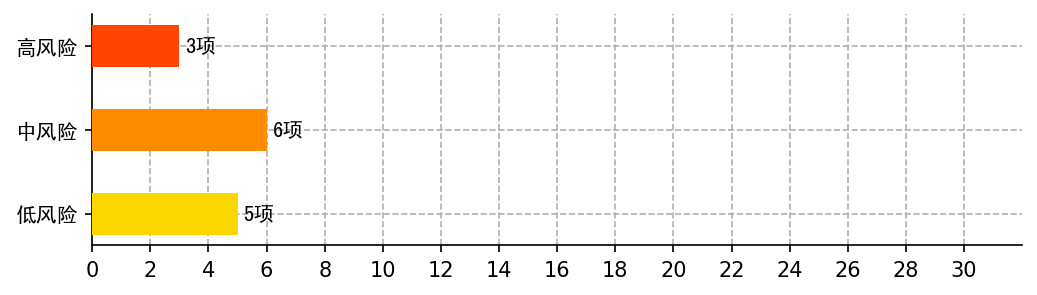
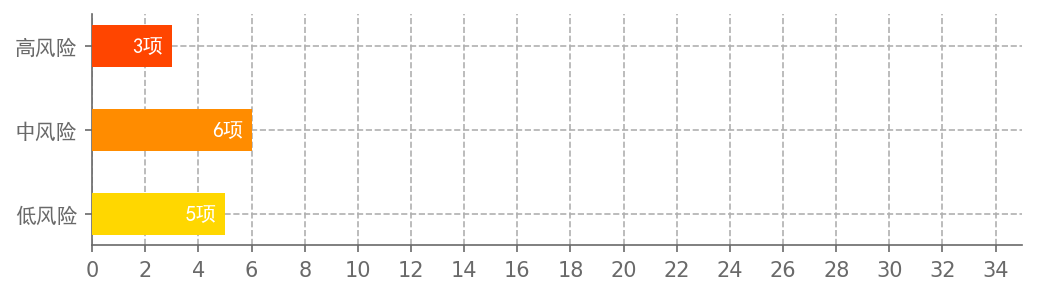
修改标题和表格

diff --git a/reporter.py b/reporter.py
@@ -1,7 +1,8 @@
 from docx import Document
 from docx.shared import Inches, Pt, RGBColor, Cm
 import pandas as pd
-from docx.enum.table import WD_TABLE_ALIGNMENT
+from docx.enum.table import WD_TABLE_ALIGNMENT,WD_ALIGN_VERTICAL
+from docx.enum.text import WD_PARAGRAPH_ALIGNMENT
 import numpy as np
 from docx.oxml.shared import qn
 from docx.oxml.xmlchemy import OxmlElement
@@ -12,9 +13,6 @@ from draw import draw
 
 
 
-
-# from matplotlib.font_manager import FontManager
-# import subprocess
 
 
 
@@ -44,41 +42,90 @@ def merge_cells_by_column_test(table, column):
     for i in range(1, len(table.rows)):
         if(head_cell.text == table.cell(i, column).text):
             head_cell.merge(table.cell(i, column))
+            head_cell.paragraphs[0].runs[0].font.size = Pt(9)
+            head_cell.paragraphs[0].alignment = WD_PARAGRAPH_ALIGNMENT.CENTER
+            head_cell.vertical_alignment = WD_ALIGN_VERTICAL.CENTER
+            head_cell.paragraphs[0].runs[0].font.color.rgb = RGBColor(69, 69, 69)
             head_cell.text = head_cell_text
         else:
             head_cell = table.cell(i, column)
+            head_cell.paragraphs[0].runs[0].font.size = Pt(9)
+            head_cell.paragraphs[0].alignment = WD_PARAGRAPH_ALIGNMENT.CENTER
+            head_cell.vertical_alignment = WD_ALIGN_VERTICAL.CENTER
+            head_cell.paragraphs[0].runs[0].font.color.rgb = RGBColor(69, 69, 69)
             head_cell_text = head_cell.text
 
 
 def generate_table(file_name, doc):
     df = pd.read_csv('data/{}.csv'.format(file_name))
     table = doc.add_table(1, cols=len(df.columns), style='Table Grid')
+    table.autofit = True
+    table.columns[0].width = Inches(1)
+    table.columns[1].width = Inches(2)
+    table.columns[2].width = Inches(1)
+
+
+
+
     header_cells = table.rows[0].cells
     for i, col in enumerate(df.columns):
-        header_cells[i].text = col
+        cell = header_cells[i]
+        cell.text = col
+        # cell.paragraphs[0].runs[0].font.bold = True
+        cell.paragraphs[0].runs[0].font.size = Pt(9)
+        cell.paragraphs[0].runs[0].font.color.rgb = RGBColor(69, 69, 69)
+        cell.vertical_alignment = WD_ALIGN_VERTICAL.CENTER
 
+    table.rows[0].height = Pt(24)
     # 填入数据
     for i, row in enumerate(df.itertuples(), start=1):
         cells = table.add_row().cells
+        table.rows[i].height = Pt(24)
         for j, value in enumerate(row[1:], start=0):
-            cells[j].text = str(value)
+            cell = cells[j]
+            cell.text = str(value)
+            cell.paragraphs[0].runs[0].font.size = Pt(9)
+            cell.paragraphs[0].alignment = WD_PARAGRAPH_ALIGNMENT.CENTER
+            cell.vertical_alignment = WD_ALIGN_VERTICAL.CENTER
+            cell.paragraphs[0].runs[0].font.color.rgb = RGBColor(69, 69, 69)
+
+
+            # cells[j].font.size = Pt(1)
 
     merge_cells_by_column_test(table, 0)
     merge_cells_by_column_test(table, 1)
 
+
     for i in range(len(table.columns)):
         set_table_header_bg_color(table.rows[0].cells[i])
-        table.rows[0].cells[i].width = Inches(1000)
     # table.style = 'Light Grid'
     table.style.paragraph_format.alignment = WD_TABLE_ALIGNMENT.CENTER
     # table.style.font.size = Pt(8)
 
 if __name__ == '__main__':
     document = Document()
-    document.styles['Normal'].font.name = u'宋体'
-    document.styles['Normal'].font.size = Pt(10)
-    document.styles['Normal'].font.color.rgb = RGBColor(0, 0, 0)
-    document.styles['Normal']._element.rPr.rFonts.set(qn('w:eastAsia'), u'宋体')
+    text_style = document.styles['Normal']
+    
+    text_style.font.name = u'黑体'
+    text_style.font.size = Pt(9.5)
+    text_style.font.color.rgb = RGBColor(69, 69, 69)
+    text_style._element.rPr.rFonts.set(qn('w:eastAsia'), u'黑体')
+
+    head_1_style = document.styles['Heading 1']
+
+    head_1_style.font.name = u'黑体'
+    head_1_style.font.size = Pt(15)
+    # head_1_style.font.color.rgb = RGBColor(0, 0, 0)
+    head_1_style._element.rPr.rFonts.set(qn('w:eastAsia'), u'黑体')
+
+
+    head_2_style = document.styles['Heading 2']
+
+    head_2_style.font.name = u'黑体'
+    head_2_style.font.size = Pt(13)
+    head_2_style.font.color.rgb = RGBColor(69, 69, 69)
+    head_2_style._element.rPr.rFonts.set(qn('w:eastAsia'), u'黑体')
+
 
     document.sections[0].top_margin = Cm(1.27)
     document.sections[0].bottom_margin = Cm(1.27)
@@ -90,19 +137,14 @@ if __name__ == '__main__':
 
 
     document.add_heading('总结概述', level=1)
-    # document.add_heading('1. 整体风险', level=4)
     p1 = document.add_paragraph()
-    p1.add_run('1. 整体风险').bold = True
+    p1.add_run('1. 整体风险').font.size=Pt(10.5)
     draw.draw('1')
 
     p2 = document.add_paragraph()
-    p2.add_run('本次报告分析周期为：（2020年01月01日到2023年02月28日），通过发票、财务报表、纳税申报表的综合分析，共检测出风险点14项，其中高风险3项，中风险6项，低风险5项')
+    p2.add_run('本次报告分析周期为：(2020年01月01日到2023年02月28日)，通过发票、财务报表、纳税申报表的综合分析，共检测出风险点14项，其中高风险3项，中风险6项，低风险5项')
     document.add_picture('fig/1.png')
-    # p2 = document.add_paragraph('本次报告分析周期为：（2020年01月01日到2023年02月28日），通过发票、财务报表、纳税申报表的综合分析，共检测出风险点14项，其中高风险3项，中风险6项，低风险5项')
     # p1.paragraph_format.line_spacing = Pt(15)
-    # p1.style.font.size = Pt(8)
-    # document.add_heading('2. 具体风险如下', level=4)
-    # p3 = document.add_paragraph('2. 具体风险如下').bold = True
     p3 = document.add_paragraph()
     p3.add_run('2. 具体风险如下').bold = True
     generate_table('1', document)

diff --git a/draw/draw.py b/draw/draw.py
@@ -13,7 +13,7 @@ def draw(file_name):
 
     font = {
     'family': 'SimHei',
-    'weight': 'light',
+    'weight': 'light'
     }
     df = pd.read_csv('data/{}.csv'.format(file_name), header=0)
     data = df['风险等级'].value_counts()
@@ -26,26 +26,38 @@ def draw(file_name):
 
     fig = plt.figure(figsize=(8,2), dpi=150)
     ax = fig.add_subplot()
+    # plt.text(3,15,'SimHei',color='red')
+    # plt.tick_params(axis='y', color='red')
+
     ax.grid(True, linestyle='--', zorder=0)
     ax.spines['right'].set_visible(False)
     ax.spines['top'].set_visible(False)
-    # ax = fig.add_subplots(221)
-    y_pos = np.arange(3)
+    ax.spines['bottom'].set_color('dimgrey')
+    ax.spines['left'].set_color('dimgrey')
     bar_color = ['orangered', 'darkorange', 'gold']
+    y_pos = np.arange(3)
+
     # x轴
-    plt.xlim(0,32)
+    plt.xlim(0,35)
     # x轴刻度
-    plt.xticks(np.arange(0,32,2))
+    plt.xticks(np.arange(0,35,2),color='dimgrey')
+    plt.yticks(y_pos,y,color='dimgrey',fontproperties=font)
+    plt.tick_params(axis='x', color='dimgrey')
+    plt.tick_params(axis='y', color='dimgrey')
+    # ax.set_ylim(auto=False)
+
     # y轴
-    ax.set_yticks(y_pos, labels=y, font=font)
+    # ax.set_yticks(y_pos, labels=y)
+    # ax.set_yticks(y_pos, labels=y)
 
     ax.invert_yaxis()  # labels read top-to-bottom
     # x_label = [str(x[0])+'项', str(x[1])+'项', str(x[2])+'项']
-    ax.barh(y_pos, x, align='center', color=bar_color, height=0.5, zorder=10)
+    ax.barh(y_pos, x, align='center', color=bar_color, height=0.5, zorder=5)
+    # ax.barh(y_pos, x, align='center', color=bar_color, zorder=10)
 
-    # ax.bar_label(p1, label_type='edge')
+    # 添加字
     for a,b in enumerate(x):
-        ax.text(b+0.2,a,str(b)+'项',va='center',fontsize=10, fontdict=font)
+        ax.text(b-1.5,a,str(b)+'项',va='center',fontsize=10, fontdict=font, color='white',zorder=10)
 
 
     # ax.set_xlabel('Performance')
